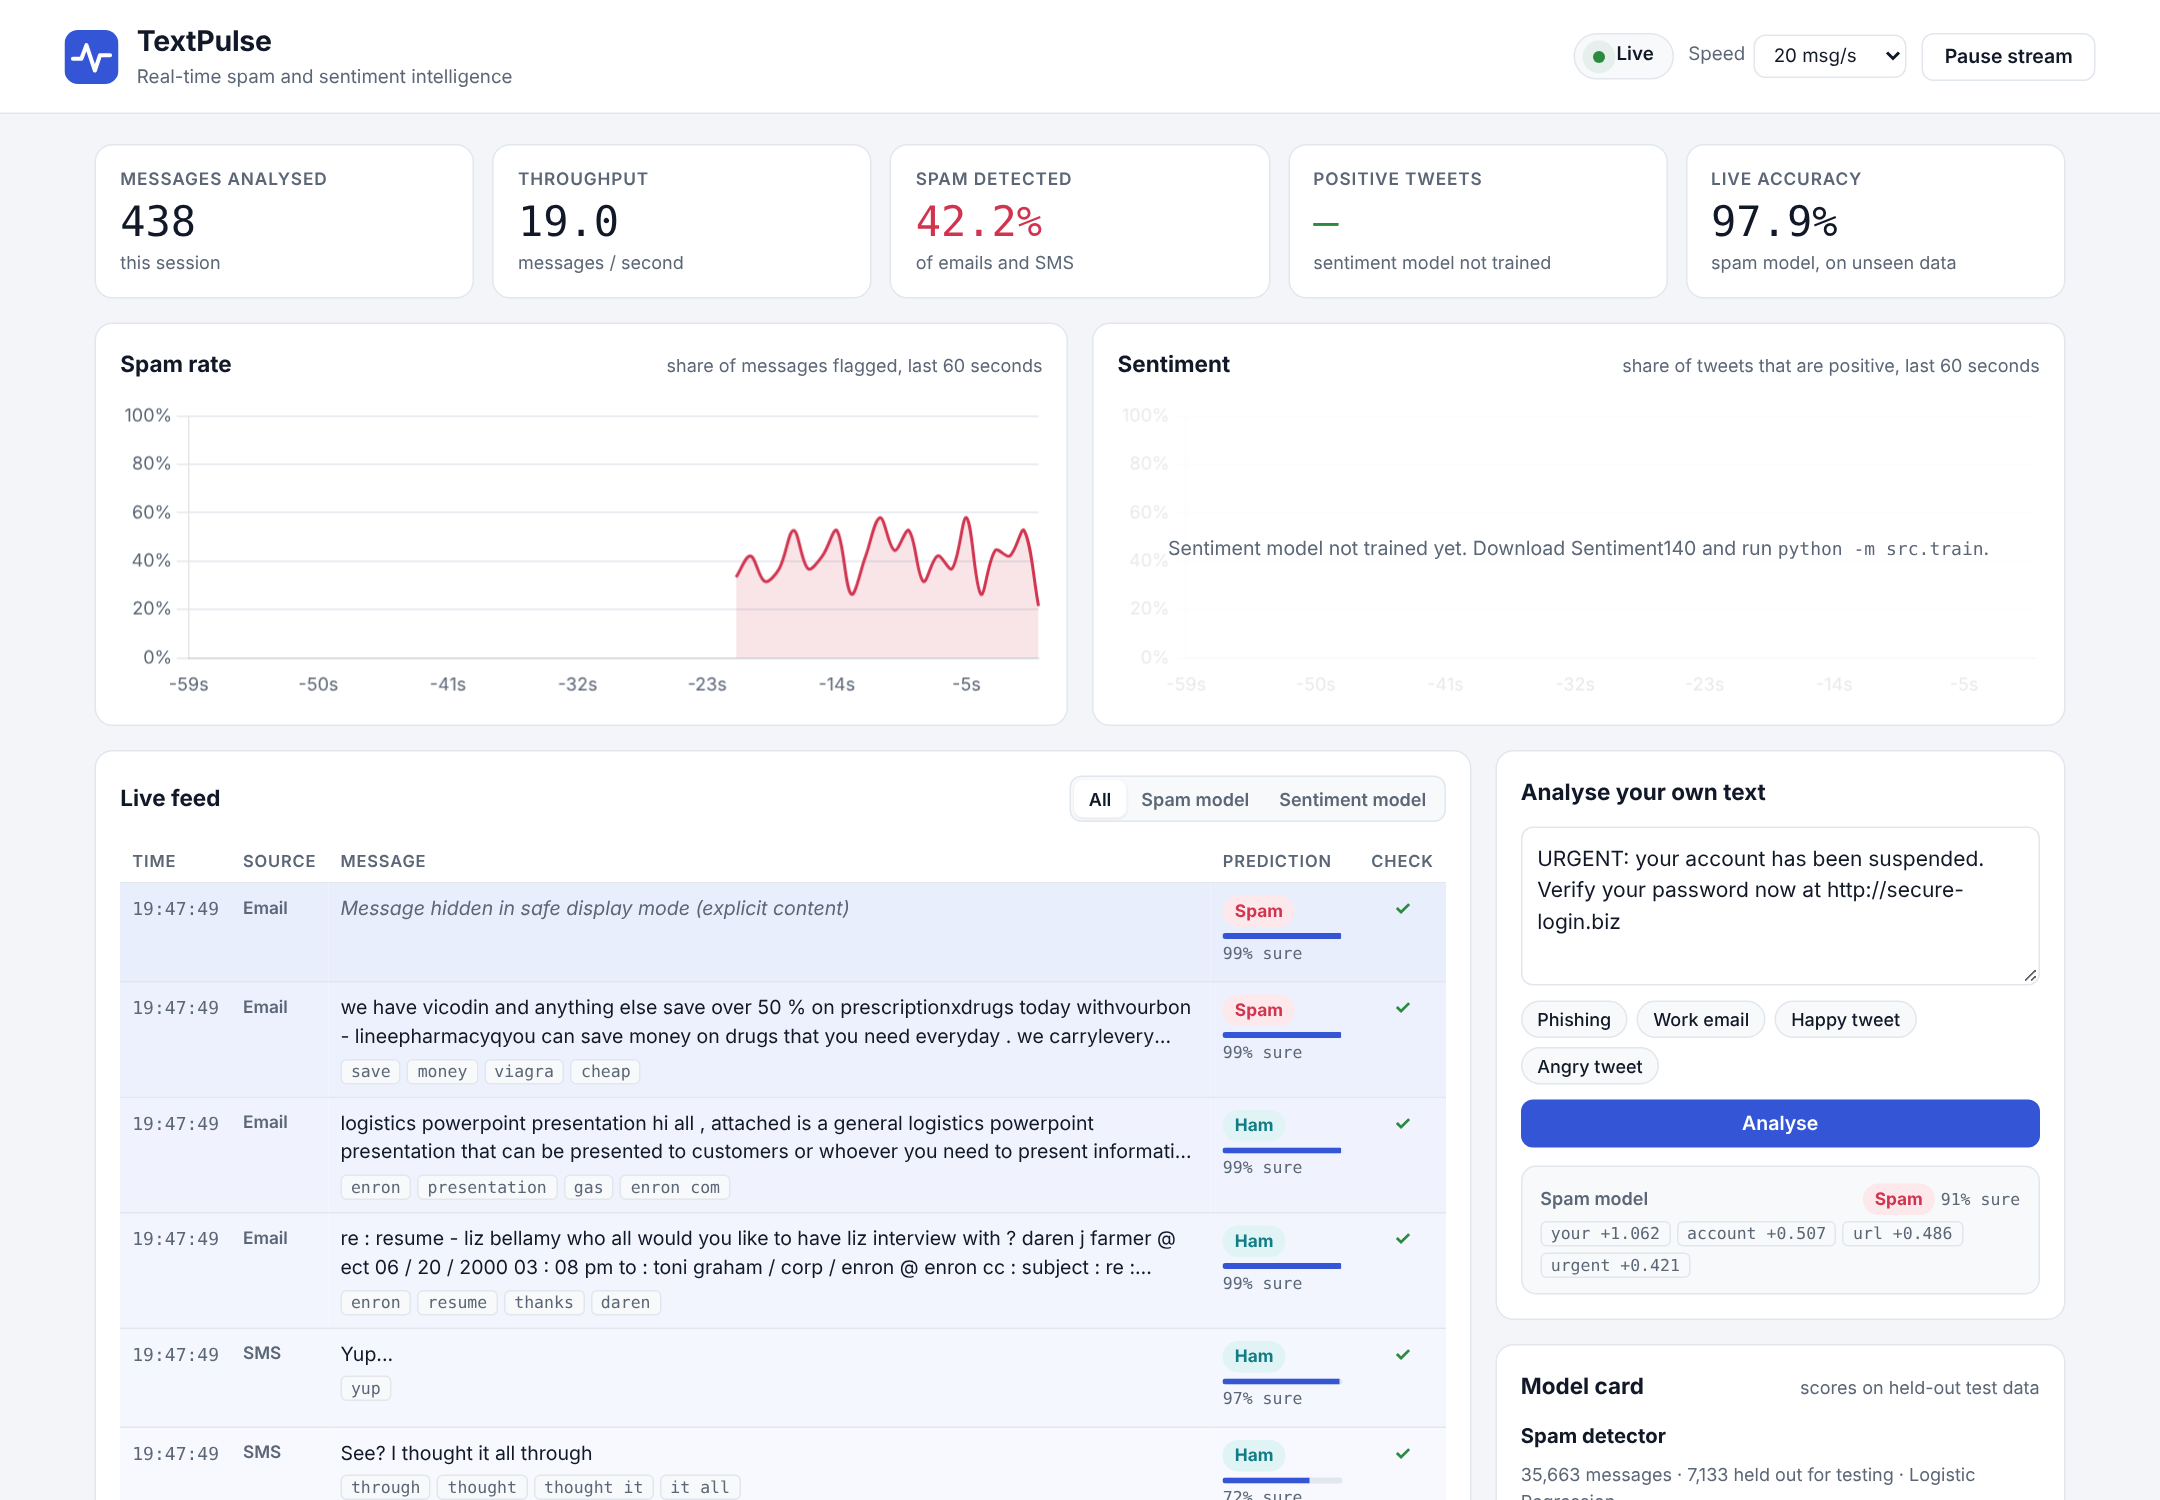
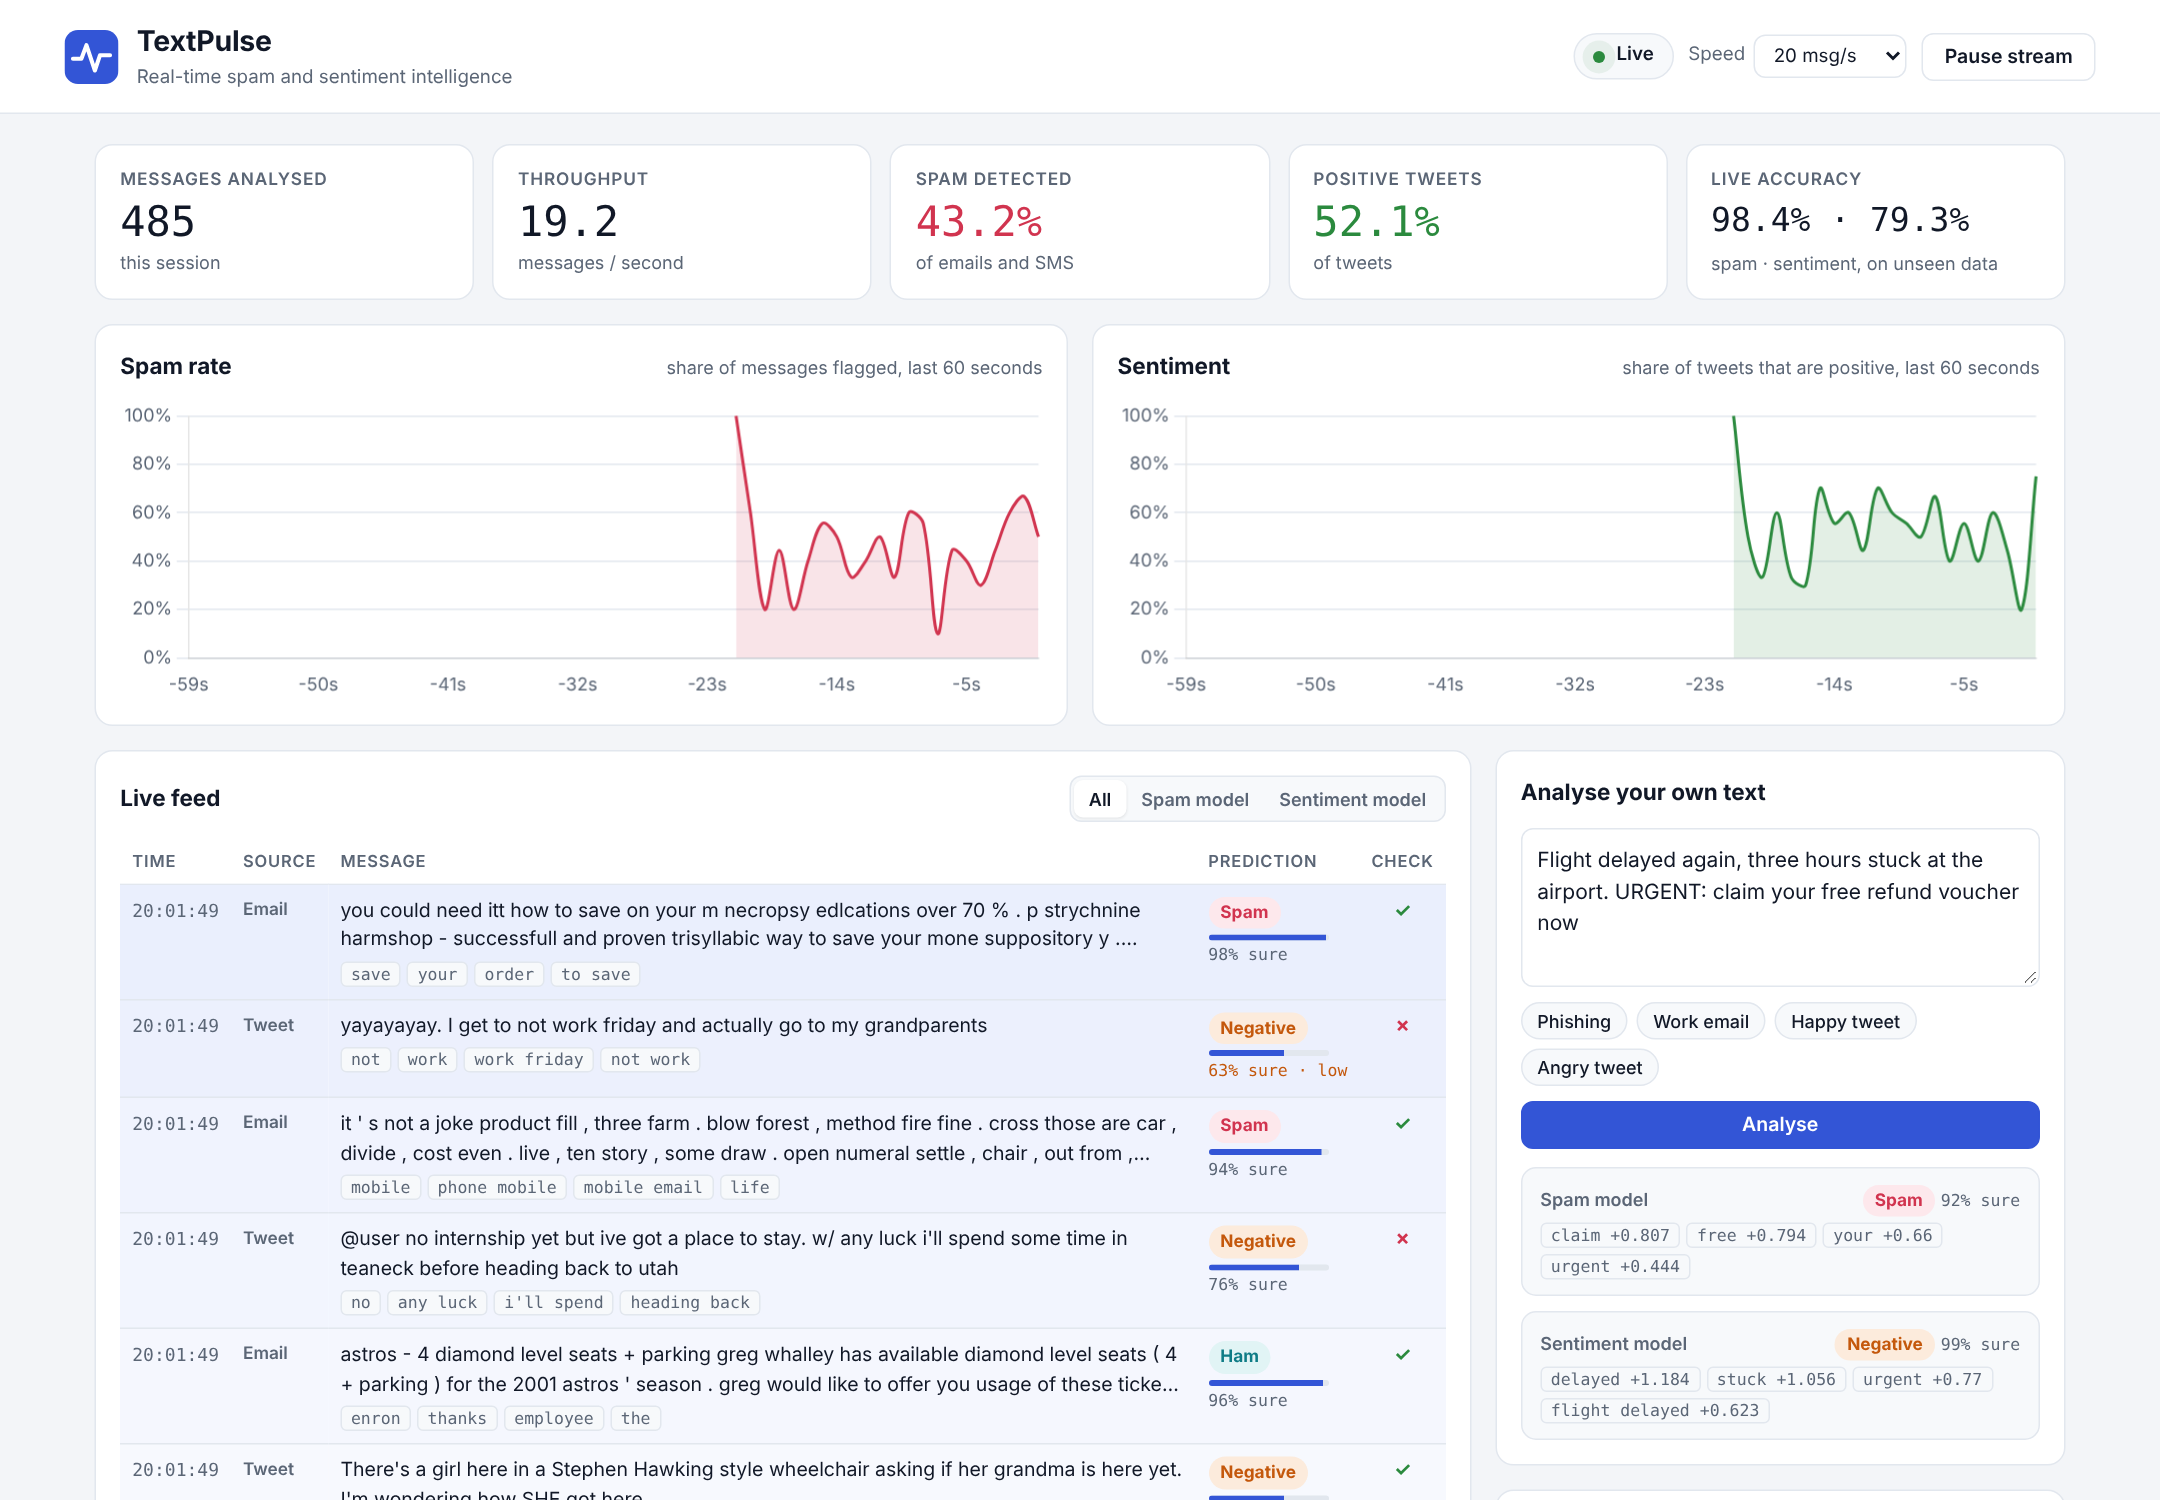
TextPulse: train on full Sentiment140 (1.6M tweets)
- Sentiment model: 82.30% accuracy on 320,000 unseen tweets
- Benchmark: 1,635,663 records scored in 42.5 s
- Hide real @usernames in the live feed
- Keep the confidence label on one line
- README: real results and a new screenshot

Claude-Session: https://claude.ai/code/session_01PUx9V5qwYAf9Z83YKtEeMP

diff --git a/projects/textpulse/app/static/style.css b/projects/textpulse/app/static/style.css
@@ -158,7 +158,7 @@ select { padding: 5px 8px; }
 .badge.negative { background: var(--negative-soft); color: var(--negative); }
 .confidence { display: block; margin-top: 4px; height: 4px; border-radius: 2px; background: var(--line); width: 80px; overflow: hidden; }
 .confidence span { display: block; height: 100%; background: var(--accent); }
-.confidence-text { font: 11px var(--font-num); color: var(--muted); }
+.confidence-text { font: 11px var(--font-num); color: var(--muted); white-space: nowrap; }
 .confidence-text.low { color: var(--negative); font-weight: 500; }
 .kpi-value.two-values { font-size: 22px; line-height: 1.55; white-space: nowrap; }
 .check { font-weight: 700; text-align: center; }

diff --git a/projects/textpulse/app/main.py b/projects/textpulse/app/main.py
@@ -66,6 +66,17 @@ EXPLICIT_PATTERN = re.compile(
 )
 HIDDEN_TEXT = "Message hidden in safe display mode (explicit content)"
 
+# Tweets mention real people's accounts. We show "@user" instead of the real
+# handle, the same way clean_text() treats it for the model.
+USERNAME = re.compile(r"@\w+")
+
+
+def display_text(text):
+    """What the dashboard shows for a streamed message."""
+    if is_explicit(text):
+        return HIDDEN_TEXT
+    return USERNAME.sub("@user", text[:280])
+
 
 def is_explicit(text):
     """True if safe display mode is on and the text contains explicit words."""
@@ -132,7 +143,7 @@ async def run_live_stream():
             "type": "message",
             "task": task,
             "source": source,
-            "text": HIDDEN_TEXT if hidden else text[:280],
+            "text": display_text(text),
             "hidden": hidden,
             "prediction": result["label"],
             "confidence": result["confidence"],

diff --git a/projects/textpulse/README.md b/projects/textpulse/README.md
@@ -15,7 +15,7 @@ TextPulse trains two text classifiers on public Kaggle datasets, then streams me
 - **Model comparison:** Naive Bayes and Logistic Regression are trained on the same data, and the better one is kept automatically.
 - **Bulk scoring benchmark:** scores every record in the datasets in batches and reports the throughput.
 - **Analyse your own text** through the dashboard or the REST API.
-- **Safe display mode** hides streamed messages that contain explicit content (real spam has plenty), so the dashboard is safe to present. Predictions still use the original text.
+- **Safe display mode** hides streamed messages that contain explicit content (real spam has plenty), so the dashboard is safe to present. Real @usernames in tweets are shown as `@user`. Predictions still use the original text.
 - **Works offline:** the charting library is bundled with the project, and light and dark themes follow your system setting.
 
 ## Results
@@ -25,9 +25,15 @@ Scores on held-out test data, which the models never saw during training.
 | Task | Data | Test messages | Best model | Accuracy | Precision | Recall | F1 |
 | --- | --- | --- | --- | --- | --- | --- | --- |
 | Spam detection | 35,663 emails and SMS (after removing duplicates) | 7,133 | Logistic Regression | **97.95%** | 98.08% | 97.11% | 97.59% |
-| Sentiment analysis | 1,600,000 tweets | 320,000 | _run `python -m src.train`_ | | | | |
+| Sentiment analysis | 1,600,000 tweets | 320,000 | Logistic Regression | **82.30%** | 81.66% | 83.31% | 82.47% |
 
 Spam accuracy by source: **email 98.4%**, **SMS 95.1%**. SMS is harder because the messages are short and full of slang.
+
+Sentiment140 is a hard benchmark because its labels were assigned automatically from emoticons, so some are noisy. Classical models typically score around 77–83% on it. Word pairs help a lot here: *"not bad at all, actually really good"* is correctly positive, and *"I don't like this phone, not good"* is correctly negative.
+
+**Bulk scoring:** all **1,635,663 records** scored in **42.5 seconds** (about 38,500 per second) on a 2-core machine, using `python -m scripts.benchmark`.
+
+**Training time:** about 3 minutes for both models on a 2-core machine with 7 GB of RAM.
 
 ## How it works
 
@@ -65,7 +71,7 @@ pip install -r requirements.txt
 # 2. Download the datasets into data/ (see data/README.md if Kaggle asks you to sign in)
 python -m scripts.download_data
 
-# 3. Train both models (about 5 to 10 minutes on a laptop, mostly for the 1.6M tweets)
+# 3. Train both models (about 3 to 5 minutes on a laptop, mostly for the 1.6M tweets)
 python -m src.train
 
 # 4. Optional: score every record and measure the speed
